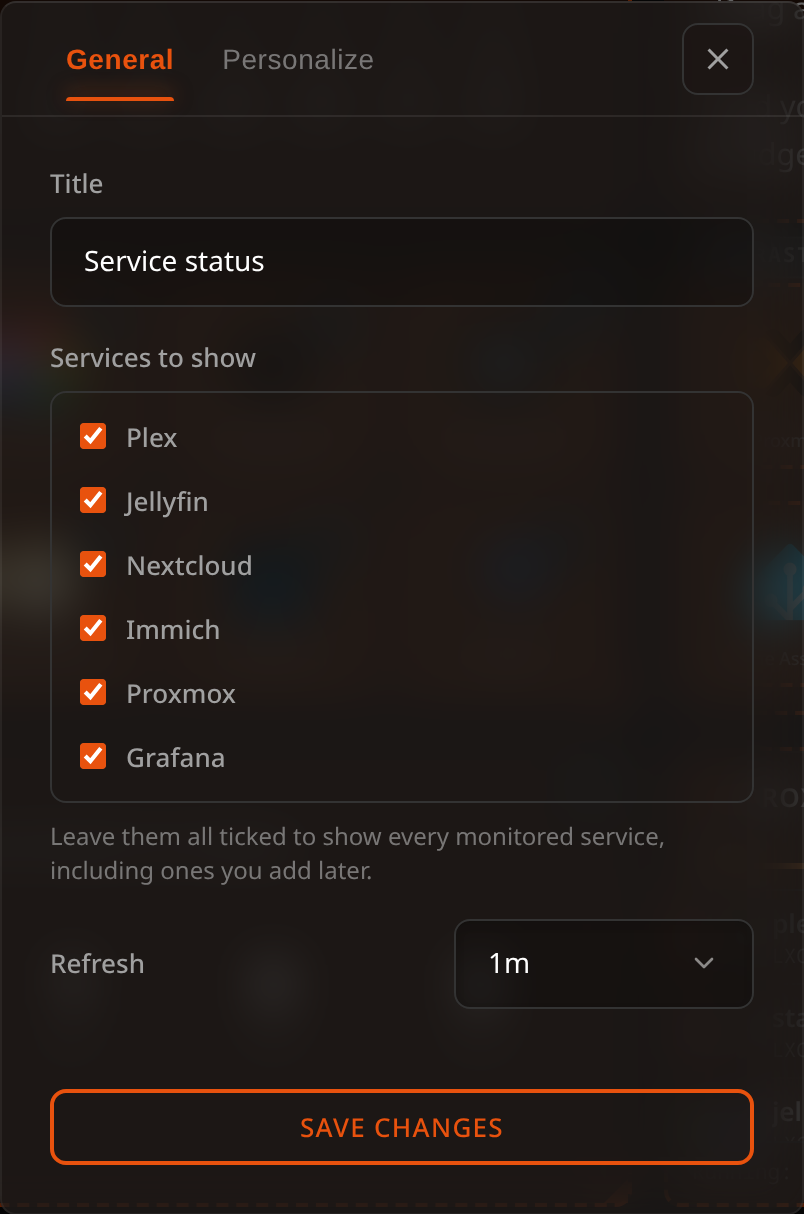
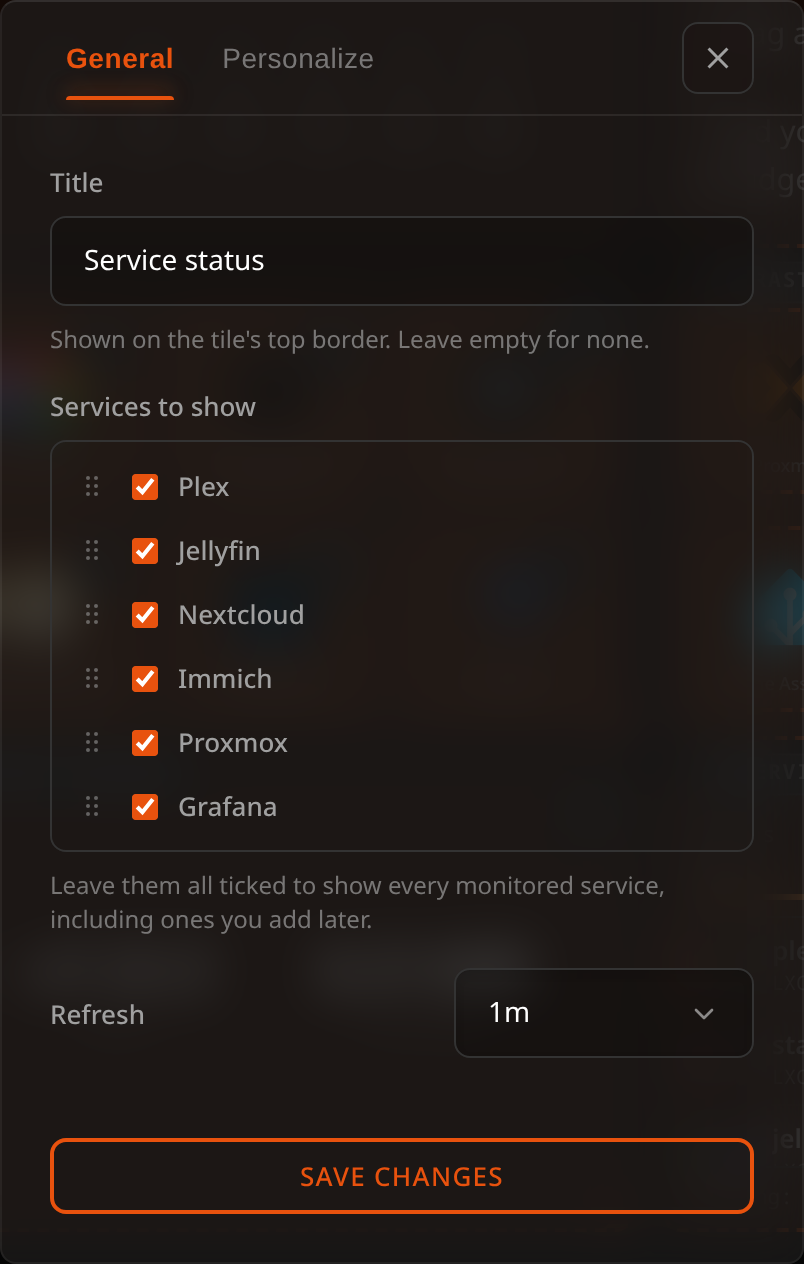
docs: screenshots show the names on the border, the title in General and the new Docker and Monitoring settings

diff --git a/scripts/docs-shots.ts b/scripts/docs-shots.ts
@@ -100,14 +100,27 @@ const openSettings = (section: string) => `
   ${DRAWER}.querySelector('.right-drawer__menu-item[data-section="${section}"]').click();
   await sleep(900);`;
 
-/** The card on the board that holds a given widget, for framing one tile. */
+/**
+ * The card on the board that holds a given widget, for framing one tile.
+ *
+ * What it hands back is the card's box with the name pill added to it: the pill sits
+ * half over the card's top edge, and a frame cut at the card would take the name's
+ * upper half off the picture.
+ */
 const tile = (widgetTag: string) =>
     `(() => {
         const el = document.querySelector('bookmark-grid').shadowRoot.querySelector('${widgetTag}');
         // Named on purpose: a bare null.closest() aborted a whole run once, and
         // the eleven shots queued behind this one were never taken.
         if (!el) throw new Error('no ${widgetTag} on the board — was it seeded?');
-        return el.closest('.bookmark-grid__card');
+        const card = el.closest('.bookmark-grid__card');
+        const pill = card.querySelector('.widget-title');
+        return { getBoundingClientRect() {
+            const b = card.getBoundingClientRect();
+            if (!pill) return b;
+            const top = Math.min(b.top, pill.getBoundingClientRect().top);
+            return new DOMRect(b.left, top, b.width, b.bottom - top);
+        } };
     })()`;
 
 /** Section names as they appear in the settings nav, and the file each becomes. */
@@ -195,12 +208,20 @@ const SHOTS: Shot[] = [
     // ── Docker, when a Docker-compatible API is available ───────────────
     { name: 'w-docker', exhibit: true, clip: tile('widget-docker'), pad: 0, dpr: 4, h: 1300, wait: 2500 },
     {
-        name: 'w-p-docker', w: 1500, h: 980, pad: 0, wait: 1200,
+        // Tall enough that the dialog is not made to scroll: it now holds the title, the
+        // hosts, seven containers and the switch for new ones, and a shorter window cut it
+        // off under the list.
+        name: 'w-p-docker', w: 1500, h: 1400, pad: 0, wait: 1200,
         act: `${TOPBAR}.querySelector('#edit-toggle').click(); await sleep(900);
               const grid = document.querySelector('bookmark-grid').shadowRoot;
               const card = grid.querySelector('widget-docker').closest('.bookmark-grid__card');
               card.querySelector('.kebab-btn').click(); await sleep(600);
-              grid.querySelector('#kebab-menu .menu-edit').click(); await sleep(1800);`,
+              grid.querySelector('#kebab-menu .menu-edit').click(); await sleep(1800);
+              // The dialog caps its own height and scrolls inside; for the photograph it
+              // is let grow to what it holds, so the switch for new containers and the
+              // refresh field are not left under the fold.
+              document.querySelector('widget-config-modal').shadowRoot.querySelector('dialog').style.maxHeight = 'none';
+              await sleep(500);`,
         clip: `document.querySelector('widget-config-modal').shadowRoot.querySelector('dialog')`,
     },
 
@@ -678,7 +699,7 @@ async function seedLiveData(dbPath: string, token: string, csrf: string) {
     // sat empty while Proxmox sat alone on row seven with the same gap beside
     // it. At five columns by two rows it closes both, and the board ends in a
     // full rectangle rather than a lone tile under a hole.
-    addWidget(8, 5, 5, 2, { widgetId: 'proxmox', refreshSec: 30, showNode: true, title: '' });
+    addWidget(8, 5, 5, 2, { widgetId: 'proxmox', refreshSec: 30, showNode: true, title: 'Hypervisors' });
 
     // The Docker widget, pointed at whatever Docker-compatible API is listening
     // on DOCKER_API (Podman serves one too). Without it the widget is left out
@@ -699,6 +720,7 @@ async function seedLiveData(dbPath: string, token: string, csrf: string) {
             widgetId: 'docker',
             hosts: [{ id: 'docs', name: 'Home server', type: 'tcp', url: dockerHost }],
             activeHost: 'docs',
+            title: 'Containers',
         });
         // Warm the proxy before anything is photographed. The first call to a
         // just-started Podman service takes several seconds to come back, which
